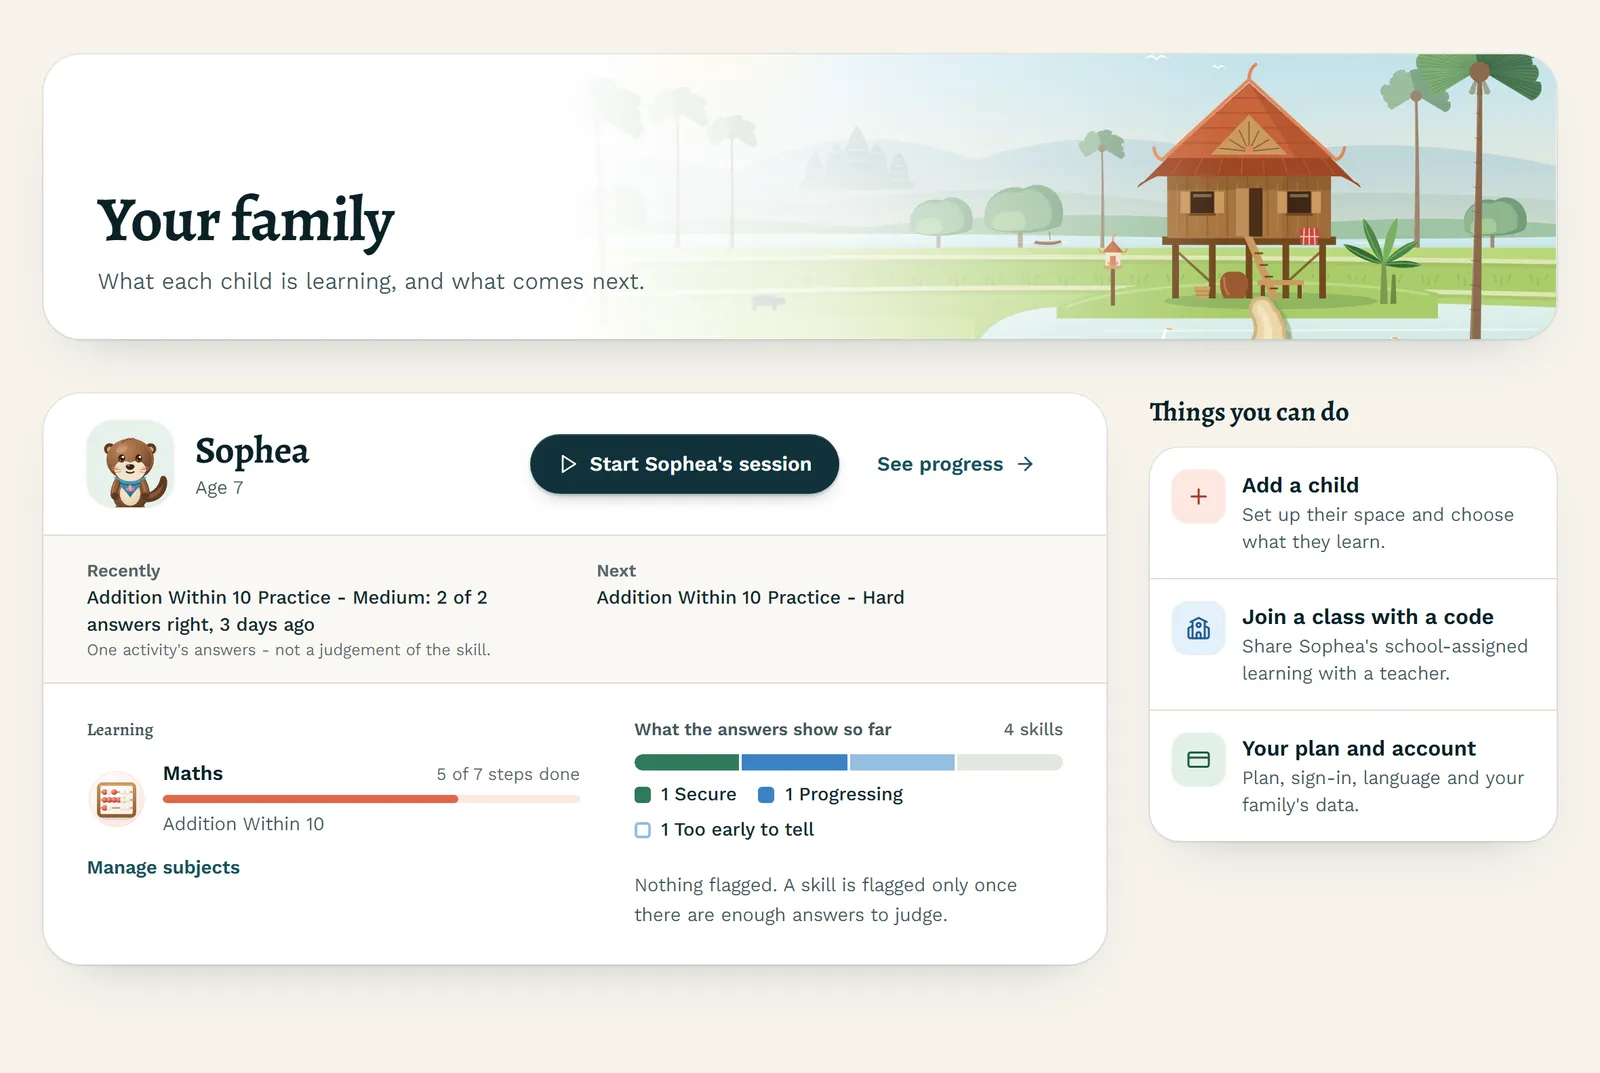
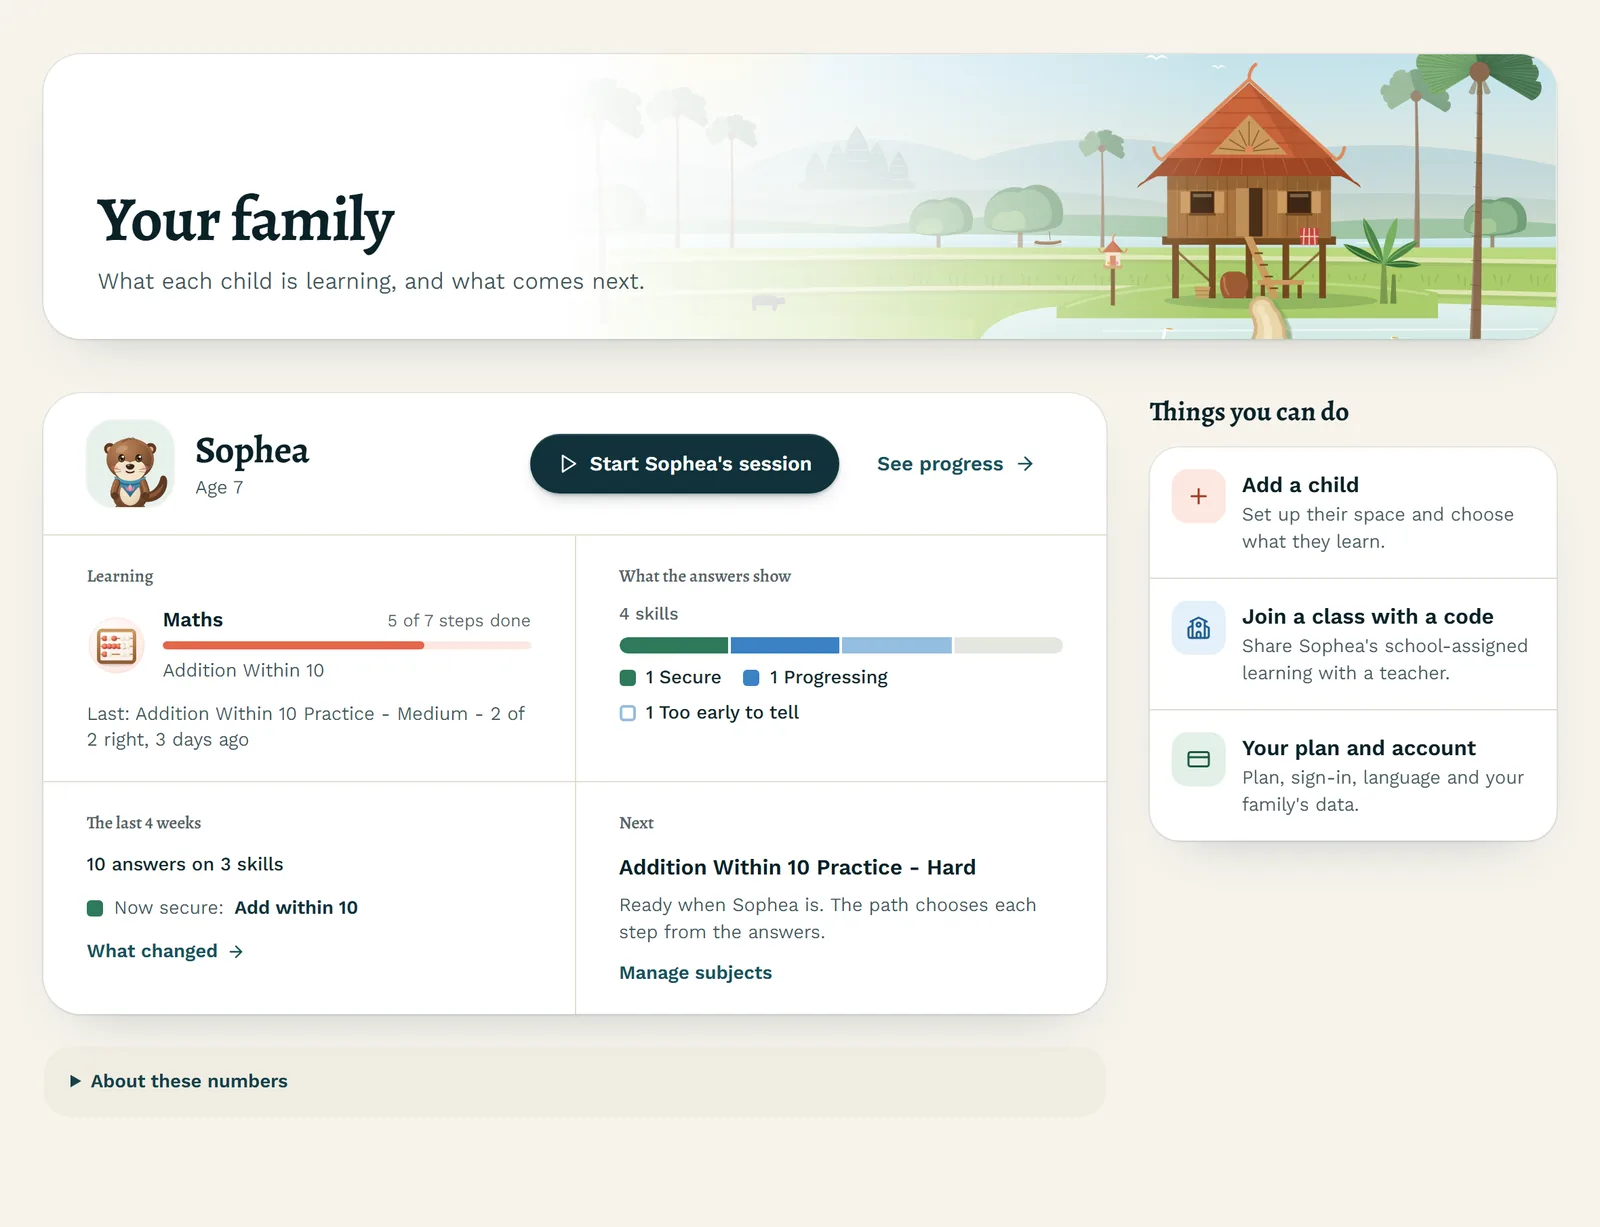
feat(landing): hero screenshots of the redesigned parent overview and the child's garden by the path (Y40)

Changed region(s): [[0.0312, 0.0308, 1.0, 0.7689], [0.0312, 0.6459, 0.6875, 0.9226]]

diff --git a/frontend/src/features/marketing/messages.ts b/frontend/src/features/marketing/messages.ts
@@ -109,9 +109,9 @@ export const marketingMessages = defineMessages(
       schoolsLead: "Classes, teachers and families on one platform - with each class's learning drawn from the children's own answers.",
       schoolsPoints: { a: "Families join a class with its code, and can end access at any time", b: "Each class's skills, and how the class moved week by week", c: "Practice assigned to the children who need it" },
       schoolsCta: "Register your school",
-      shotChild: "A child's home: their subjects and the buddy they chose.",
+      shotChild: "A child's home: their subjects, the buddy they chose, and their garden growing beside the path.",
       shotQuestion: "Inside an activity: one question at a time.",
-      shotParent: "A parent's home: what each child learns, and what the answers show.",
+      shotParent: "A parent's home: what each child learns, what the answers show, the last four weeks and what comes next.",
       shotParentChild: "One child's page: the learning plan, why the next step is next, and what changed.",
       shotTeacher: "A teacher's view of a class: where its skills stood at the end of each week.",
       seeParent: "What a parent sees",
@@ -240,9 +240,9 @@ export const marketingMessages = defineMessages(
       schoolsLead: "ថ្នាក់រៀន គ្រូ និងគ្រួសារនៅលើវេទិកាតែមួយ - ជាមួយការរៀនរបស់ថ្នាក់នីមួយៗ ដែលយកចេញពីចម្លើយផ្ទាល់របស់កុមារ។",
       schoolsPoints: { a: "គ្រួសារចូលរួមថ្នាក់ដោយប្រើលេខកូដរបស់វា ហើយអាចបញ្ចប់ការចូលប្រើបានគ្រប់ពេល", b: "ជំនាញរបស់ថ្នាក់នីមួយៗ និងរបៀបដែលថ្នាក់បានផ្លាស់ប្ដូរពីមួយសប្ដាហ៍ទៅមួយសប្ដាហ៍", c: "លំហាត់ដែលកំណត់ឱ្យកុមារដែលត្រូវការវា" },
       schoolsCta: "ចុះឈ្មោះសាលារៀនរបស់អ្នក",
-      shotChild: "ទំព័រដើមរបស់កុមារ៖ មុខវិជ្ជារបស់ពួកគេ និងមិត្តរៀនដែលពួកគេបានជ្រើសរើស។",
+      shotChild: "ទំព័រដើមរបស់កុមារ៖ មុខវិជ្ជារបស់ពួកគេ មិត្តរៀនដែលពួកគេបានជ្រើសរើស និងសួនរបស់ពួកគេដែលលូតលាស់នៅក្បែរផ្លូវ។",
       shotQuestion: "នៅក្នុងសកម្មភាព៖ សំណួរមួយម្ដងៗ។",
-      shotParent: "ទំព័រដើមរបស់ឪពុកម្ដាយ៖ អ្វីដែលកូននីមួយៗរៀន និងអ្វីដែលចម្លើយបង្ហាញ។",
+      shotParent: "ទំព័រដើមរបស់ឪពុកម្ដាយ៖ អ្វីដែលកូននីមួយៗរៀន អ្វីដែលចម្លើយបង្ហាញ បួនសប្ដាហ៍ចុងក្រោយ និងអ្វីដែលនឹងមកបន្ទាប់។",
       shotParentChild: "ទំព័ររបស់កូនម្នាក់៖ ផែនការរៀន ហេតុអ្វីជំហានបន្ទាប់ជាជំហានបន្ទាប់ និងអ្វីដែលបានផ្លាស់ប្ដូរ។",
       shotTeacher: "ទិដ្ឋភាពរបស់គ្រូលើថ្នាក់មួយ៖ កន្លែងដែលជំនាញរបស់វាឈរនៅចុងសប្ដាហ៍នីមួយៗ។",
       seeParent: "អ្វីដែលឪពុកម្ដាយមើលឃើញ",

diff --git a/frontend/src/features/marketing/LandingPage.tsx b/frontend/src/features/marketing/LandingPage.tsx
@@ -128,7 +128,7 @@ function Hero() {
             src={parentHome}
             alt={l.shotParent}
             width={1600}
-            height={1073}
+            height={1227}
             eager
             className="ml-auto w-[88%] rotate-[1.5deg] motion-safe:animate-rise-in"
           />

diff --git a/REDESIGN-PROGRAM.md b/REDESIGN-PROGRAM.md
@@ -42,8 +42,8 @@ Started 2026-10-19 from aed3a32. Phases are marked when done, so they are never 
 | 1 | Child experience | ✅ Garden in the world (by the path), verdicts as lotus pictures, right answer and right order shown in place, whole basket takes a tile, next lantern with books to go, intro shows what the book asks (pictures + one word) |
 | 2 | Parent dashboard and statistics | ✅ Each child answers four questions in four ruled cells: Learning (subjects, where, last activity), What the answers show (standing bar), The last 4 weeks (what became secure or moved up, what may need practice, link to What changed), Next (the path's step, or the parent's decision when a path is done or missing). Removed: duplicated "every step done", per-child empty "nothing flagged" panel, per-child notes (now one "About these numbers") |
 | 3 | Teacher, principal, admin deeper screens | ✅ Principal Teachers page says which classes each teacher teaches (or that they have none yet), linked; Studio activities as one ruled sheet of lessons instead of a card each. Reviewed and kept: Studio authoring (checks, preview, review, versions, skills), class workspace, admin accounts, schools, plans, storage, learning operations |
-| 4 | Landing and design-system gaps | ⏳ |
-| 5 | Responsive and bilingual pass; final checks | ⬜ |
+| 4 | Landing and design-system gaps | ✅ Hero screenshots re-captured from the redesigned product (parent four-cell overview; child home with the garden by the path) and their descriptions updated; the rest of the landing kept as completed in Y39 |
+| 5 | Responsive and bilingual pass; final checks | ⏳ |
 
 **Child review (what was only restyled, what was weak):** the world showed chapters (pond lotuses) but
 not what the child can do; a wrong typed answer or order was corrected only in words; the sorting basket
